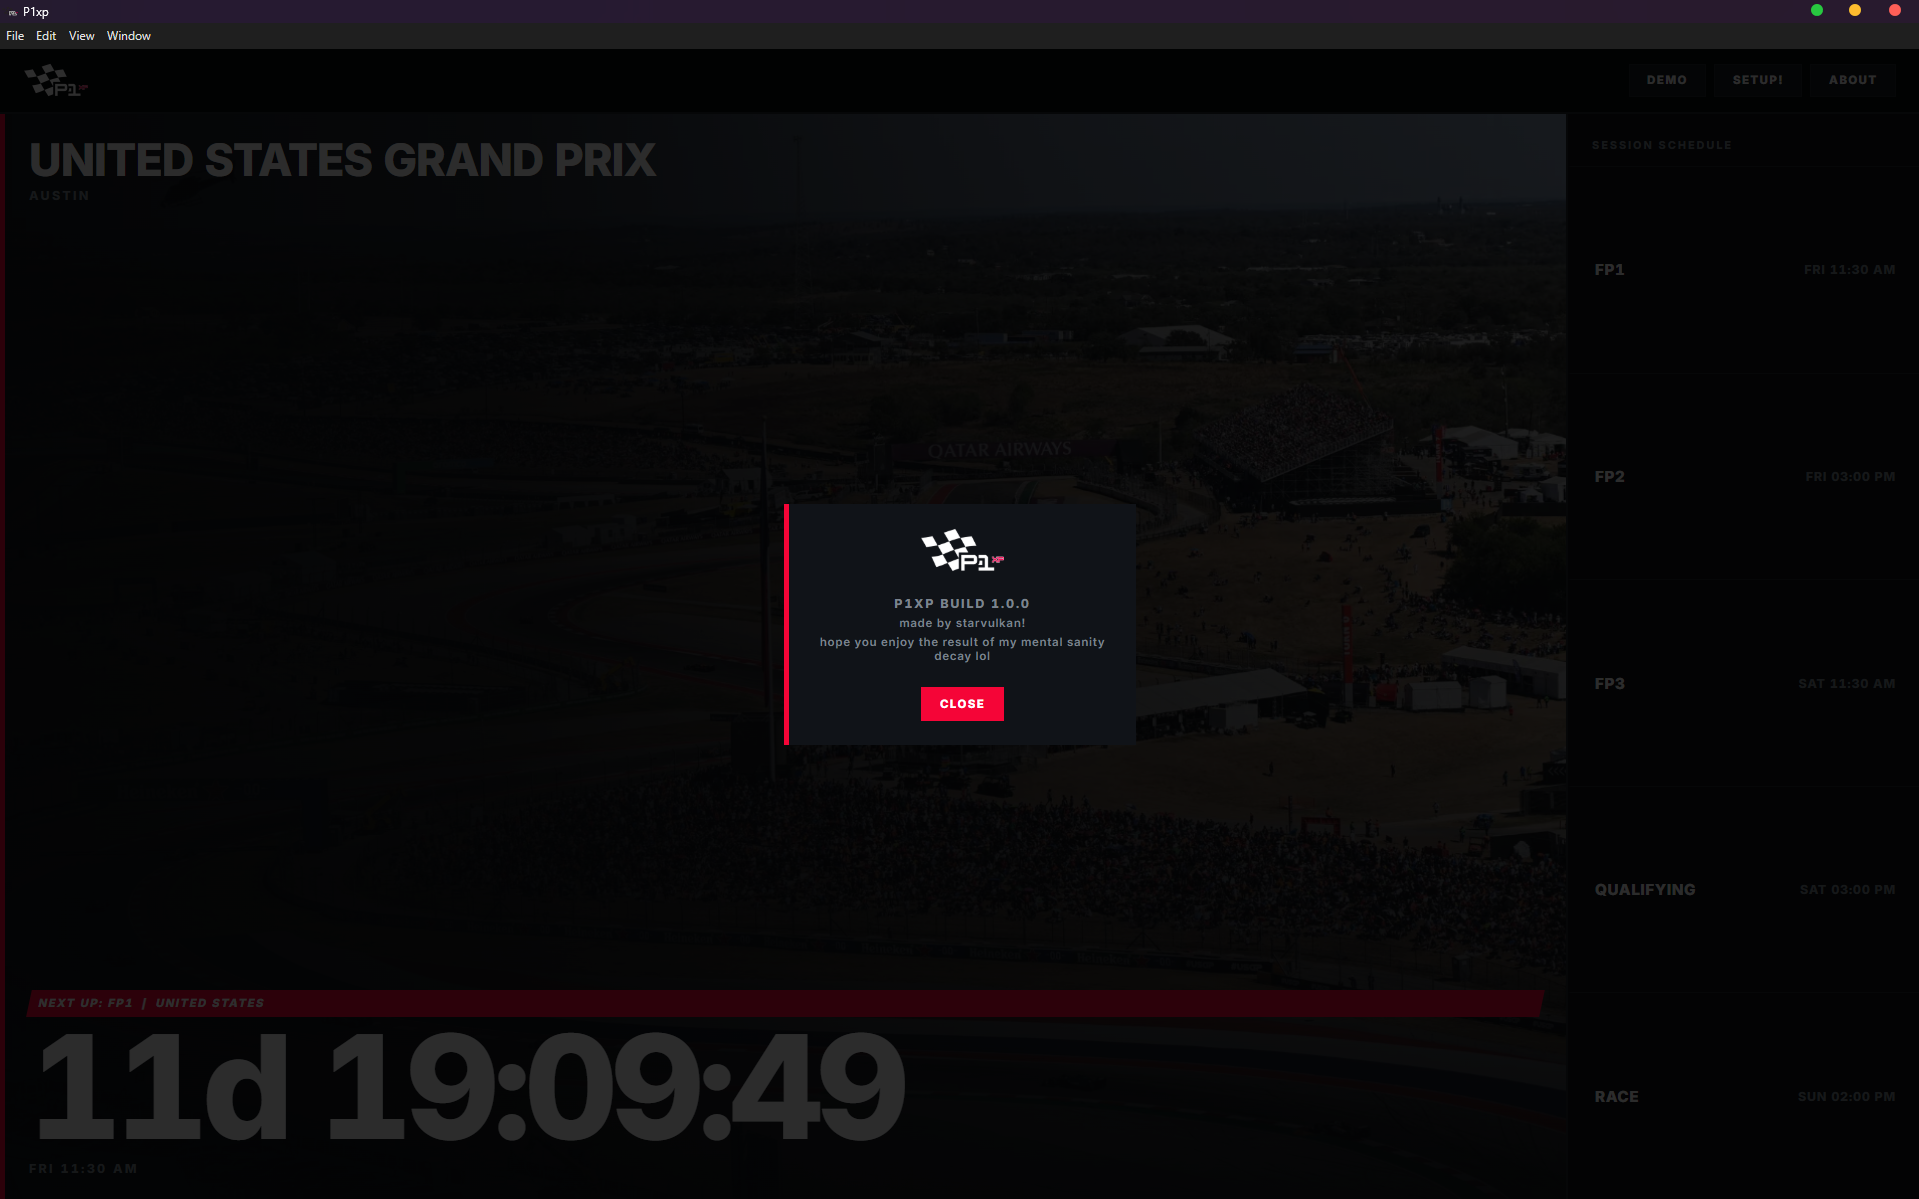
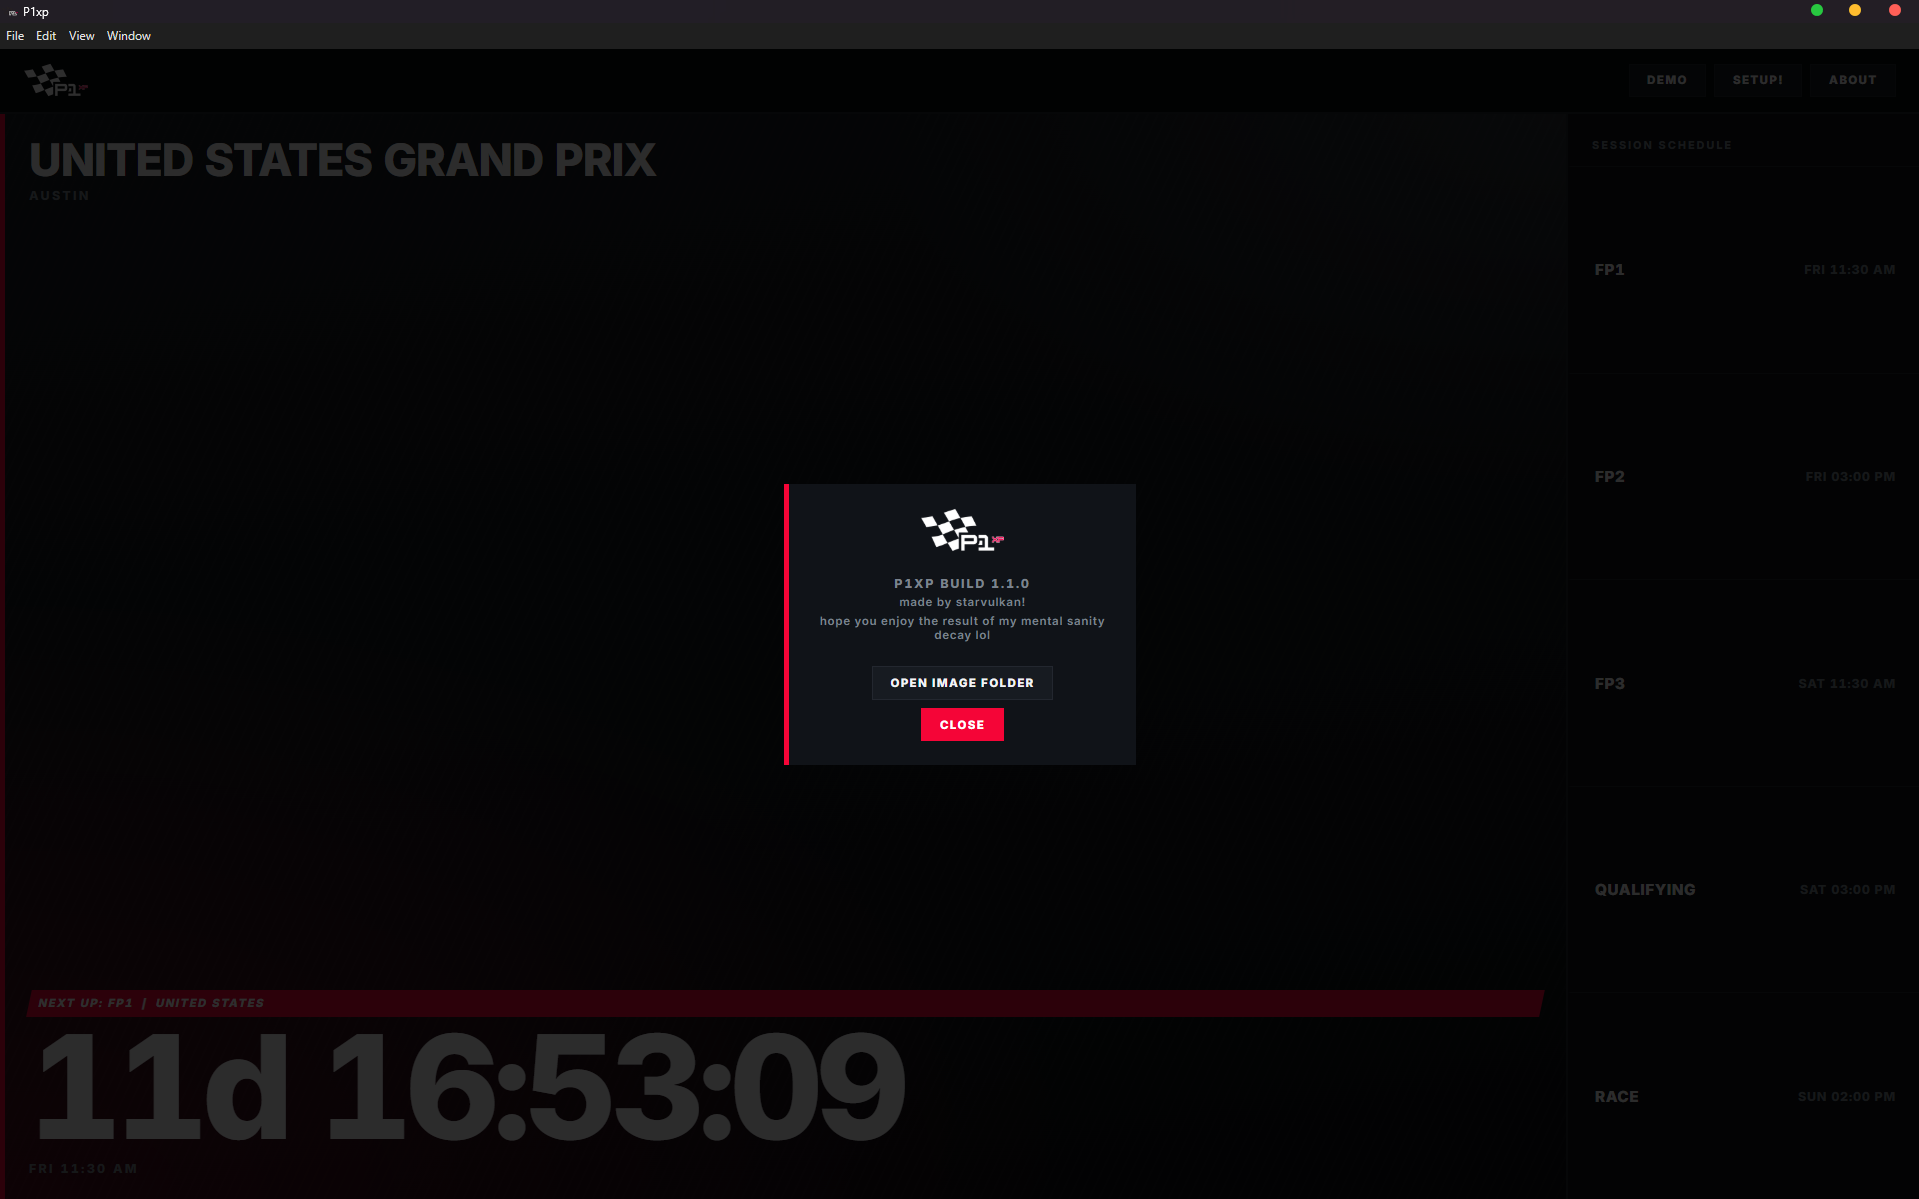
now you choose the hero images! + README
yeaa so I couldnt get myself to find good copyright-free images, so let's do a bit of copyright evasion by giving the user the ability of choosing the hero image per track, instead of sending myself to the redistribution sin layer of the copyright hell.

Changed region(s): [[0.4304, 0.432, 0.5534, 0.6172], [0.2152, 0.8641, 0.4304, 0.9566]]

diff --git a/src/main.js b/src/main.js
@@ -26,6 +26,7 @@ const VERSION = typeof __APP_VERSION__ === 'string' ? __APP_VERSION__ : 'dev'
 const wizardEl = document.querySelector('#wizard')
 const aboutEl = document.querySelector('#about')
 const aboutBuild = document.querySelector('#about-build')
+const aboutTracks = document.querySelector('#about-tracks')
 const homeEl = document.querySelector('#home')
 const liveEl = document.querySelector('#live')
 const feedEl = document.querySelector('#live-feed')
@@ -430,6 +431,12 @@ async function start() {
   aboutBuild.textContent = `P1xp build ${VERSION}`
   document.querySelector('#about-open').addEventListener('click', () => { aboutEl.hidden = false })
   document.querySelector('#about-close').addEventListener('click', () => { aboutEl.hidden = true })
+
+  if (window.p1xp && window.p1xp.openTracks) {
+    aboutTracks.hidden = false
+    aboutTracks.addEventListener('click', () => window.p1xp.openTracks())
+  }
+
   aboutEl.addEventListener('click', (event) => { if (event.target === aboutEl) aboutEl.hidden = true })
   document.querySelector('#setup-open').addEventListener('click', openSetup)
   document.querySelector('#demo-open').addEventListener('click', startDemo)

diff --git a/src/tracks.js b/src/tracks.js
@@ -87,9 +87,20 @@ export function slugFor(session) {
     return BY_COUNTRY[plain(session.country)] || null
 }
 
-export function urlFor(session) {
-    const slug = slugFor(session)
-    return slug ? `./tracks/${slug}.webp` : null
+const mine = new Map()
+
+async function userFor(slug) {
+    if (mine.has(slug)) return mine.get(slug)
+    let found = null
+    try {
+        if (typeof window !== 'undefined' && window.p1xp && window.p1xp.findTrack) {
+            found = await window.p1xp.findTrack(slug)
+        }
+    } catch (error) {
+        console.warn('tracks:', error)
+    }
+    mine.set(slug, found)
+    return found
 }
 
 function preload(src, timeoutMs = 8000) {
@@ -113,7 +124,10 @@ export function mount({ photoEl, scrimEl }) {
     }
 
     return async function apply(session) {
-        const url = urlFor(session)
+        const slug = slugFor(session)
+        if (!slug) { hide(); return null }
+
+        const url = await userFor(slug)
         if (!url) { hide(); return null }
         if (url === showing) return showing
 

diff --git a/src/style.css b/src/style.css
@@ -119,7 +119,11 @@ body {
   display: flex;
   flex-direction: column;
   padding: var(--pad);
-  background: var(--panel);
+  background:
+    repeating-linear-gradient(115deg, rgb(255 255 255 / 0.018) 0 2px, transparent 2px 9px),
+    radial-gradient(120% 95% at 0% 100%, color-mix(in srgb, var(--team) 26%, transparent) 0%, transparent 58%),
+    radial-gradient(80% 65% at 100% 0%, color-mix(in srgb, var(--team-2) 12%, transparent) 0%, transparent 55%),
+    linear-gradient(170deg, var(--panel-2), var(--panel) 65%, #090B0E);
   border-left: 5px solid var(--team);
   min-width: 0;
   position: relative;
@@ -289,6 +293,11 @@ body {
   font-weight: 700;
   letter-spacing: 0.14em;
   text-transform: uppercase;
+}
+
+.about__folder {
+  display: block;
+  margin: 0 auto 0.5rem;
 }
 
 .about__by {

diff --git a/index.html b/index.html
@@ -130,6 +130,7 @@
         <p class="about__build" id="about-build">P1xp build</p>
         <p class="about__by">made by starvulkan!</p>
         <p class="about__by">hope you enjoy the result of my mental sanity decay lol</p>
+                <button class="btn btn--ghost about__folder" id="about-tracks" type="button" hidden>Open image folder</button>
         <button class="btn btn--team" id="about-close" type="button">Close</button>
       </div>
     </div>

diff --git a/README.md b/README.md
@@ -88,6 +88,7 @@ Apart from combining my favorite hobbies (programming and motorsport), I've alwa
 ---
 
 <h3>Layouts!</h3>
+
 <sub>NOTE: these images come from the DEMO, that's why the circuit map includes driver track position dots, as the historical data used here can be accessed for free from OpenF1. Live mode doesn't have these dots in the circuit map, as to get that working a F1 TV subscription has to be DIRECTLY connected to the app, and for safety reasons I rather not implement this feature.</sub>
 
 ---
@@ -112,7 +113,7 @@ Apart from combining my favorite hobbies (programming and motorsport), I've alwa
 
 **Layouts:**
 
-*The amount of allocated spaces for F1 TV live streams you get in your live mode is determined by your choice in the setup wizard. (No F1 TV -> 0, F1 TV Pro -> 1 (race feed), F1 TV Premium -> 2 (race feed + fav driver onboard))*
+*The amount of allocated spaces for F1 TV live streams you get in your live mode is determined by your choice in the setup wizard. (No F1 TV → 0, F1 TV Pro → 1 (race feed), F1 TV Premium → 2 (race feed + fav driver onboard))*
 
 1. Circuit map.
 2. Race control.
@@ -123,9 +124,52 @@ Apart from combining my favorite hobbies (programming and motorsport), I've alwa
 
 ---
 
-<h1>About API Usage!</h1>
+<h1>Use your own hero circuit photos!</h1>
+
+P1xp ships with no hero circuit photography. By default, the hero is empty. If you want a photo of the track there (like in the display images in this very interesting README), you are free to pick them by yourself!
+
+**Where's Waldo? Eh, sorry, the image folder!**
+
+| OS | Folder |
+|---|---|
+| Windows | `AppData\Roaming\p1xp\tracks` |
+| macOS | `~/Library/Application Support/P1XP/tracks` |
+| Linux | `~/.config/P1XP/tracks` |
+
+For your convinience, you can find this folder in **About → Open image folder**.
+
+**How do I add my incredible images?**
+
+1. Find any photo you like! Landscape is forced EH, I MEAN, **recommended**.
+2. Name it after the circuit, using the **EXACT** names below. No exceptions!
+3. Drop it in the folder.
+4. Restart P1xp, and enjoy your images!
+
+`.webp`, `.jpg` and `.png` all work, and roughly 1920x1080 is the best for appearance.
+
+**Those stubborn circuit names YOU NEED to use for your images!**
+
+abu-dhabi, australia, austria, azerbaijan, bahrain, barcelona, belgium,
+brazil, britain, canada, china, emilia-romagna, hungary, italy, japan,
+las-vegas, madrid, malaysia, mexico, miami, monaco, netherlands,
+portugal, qatar, saudi-arabia, singapore, turkiye, united-states.
+
+<sub>In case any track gets added to the calendar, I would have to update the app so it supports images for that specific track. I tried to cover as many possibilities here as possible (don't judge my word choice).</sub>
+
+**How to name your file: the example!**
+
+so wow I have a very cool and amazing WEBP image for spa! imma add it to P1xp! so, lemme name it `belgium.webp`!
+
+oh look, I found another one, a PNG one, for COTA! isn't it so peak? lemme name it `united-states.png`!
+
+**But starvulkan, why did you give the user more work and didn't bundle the images yourself?**
+
+cuz copyright is a thing, highly smart human! the best images are mostly always owned by an agency or a team, and there's barely any good free ones to use. and if I bundle the good ones (the ones I have in my P1xp install), I will be sent to the sixth layer of copyright hell for the unforgivable sin of redistribution. so, instead of forcing you a bunch of mid-quality images, I give you the amazing power of choosing your own from whatever source!
 
 ---
+
+<h1>About API Usage!</h1>
+
 
 **P1xp relies on three APIs to work:**
 
@@ -154,6 +198,10 @@ Apart from combining my favorite hobbies (programming and motorsport), I've alwa
 <h1>Made for Stardance!</h1>
 
 this project was created as part of the Hack Club Stardance challenge!
+
+---
+
+<sub>P1xp is an unofficial project and is not associated with Formula 1, the FIA, or any team. F1, FORMULA 1 and related marks are trade marks of Formula One Licensing BV.</sub>
 
 
 
